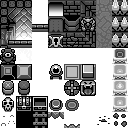
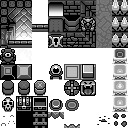
Improve Barrels
fixed bug where the incorrect sprite was being displayed.
added path to Interaction routines to cause barrel to explode,
upon a sword strike. Loot is also created.
playtested, working as expected.

Changed region(s): [[0.25, 0.625, 0.375, 0.75], [0.0, 0.625, 0.125, 0.75]]

diff --git a/GameClasses/Functions_Interaction.cs b/GameClasses/Functions_Interaction.cs
@@ -301,6 +301,17 @@ namespace DungeonRun
                         { Functions_RoomObject.DestroyObject(RoomObj, true, true); }
                         else if (RoomObj.type == ObjType.SwitchBlockBtn)
                         { Functions_RoomObject.FlipSwitchBlocks(RoomObj); }
+
+                        else if(RoomObj.type == ObjType.Barrel)
+                        {
+                            //create explosion projectile
+                            Functions_Entity.SpawnEntity(ObjType.ProjectileExplosion,
+                                RoomObj.compSprite.position.X,
+                                RoomObj.compSprite.position.Y,
+                                Direction.None);
+                            //destroy barrel, create loot
+                            Functions_RoomObject.DestroyObject(RoomObj, true, true);
+                        }
                     }
                 }
 

diff --git a/GameClasses/Functions_GameObjectAnimList.cs b/GameClasses/Functions_GameObjectAnimList.cs
@@ -119,7 +119,6 @@ namespace DungeonRun
                 new List<Byte4> { new Byte4(0, 6, 0, 0) },
                 //Barrel
                 new List<Byte4> { new Byte4(0, 5, 0, 0) },
-
                 //Bumper
                 new List<Byte4> { new Byte4(4, 5, 0, 0) },
                 //Flamethrower
